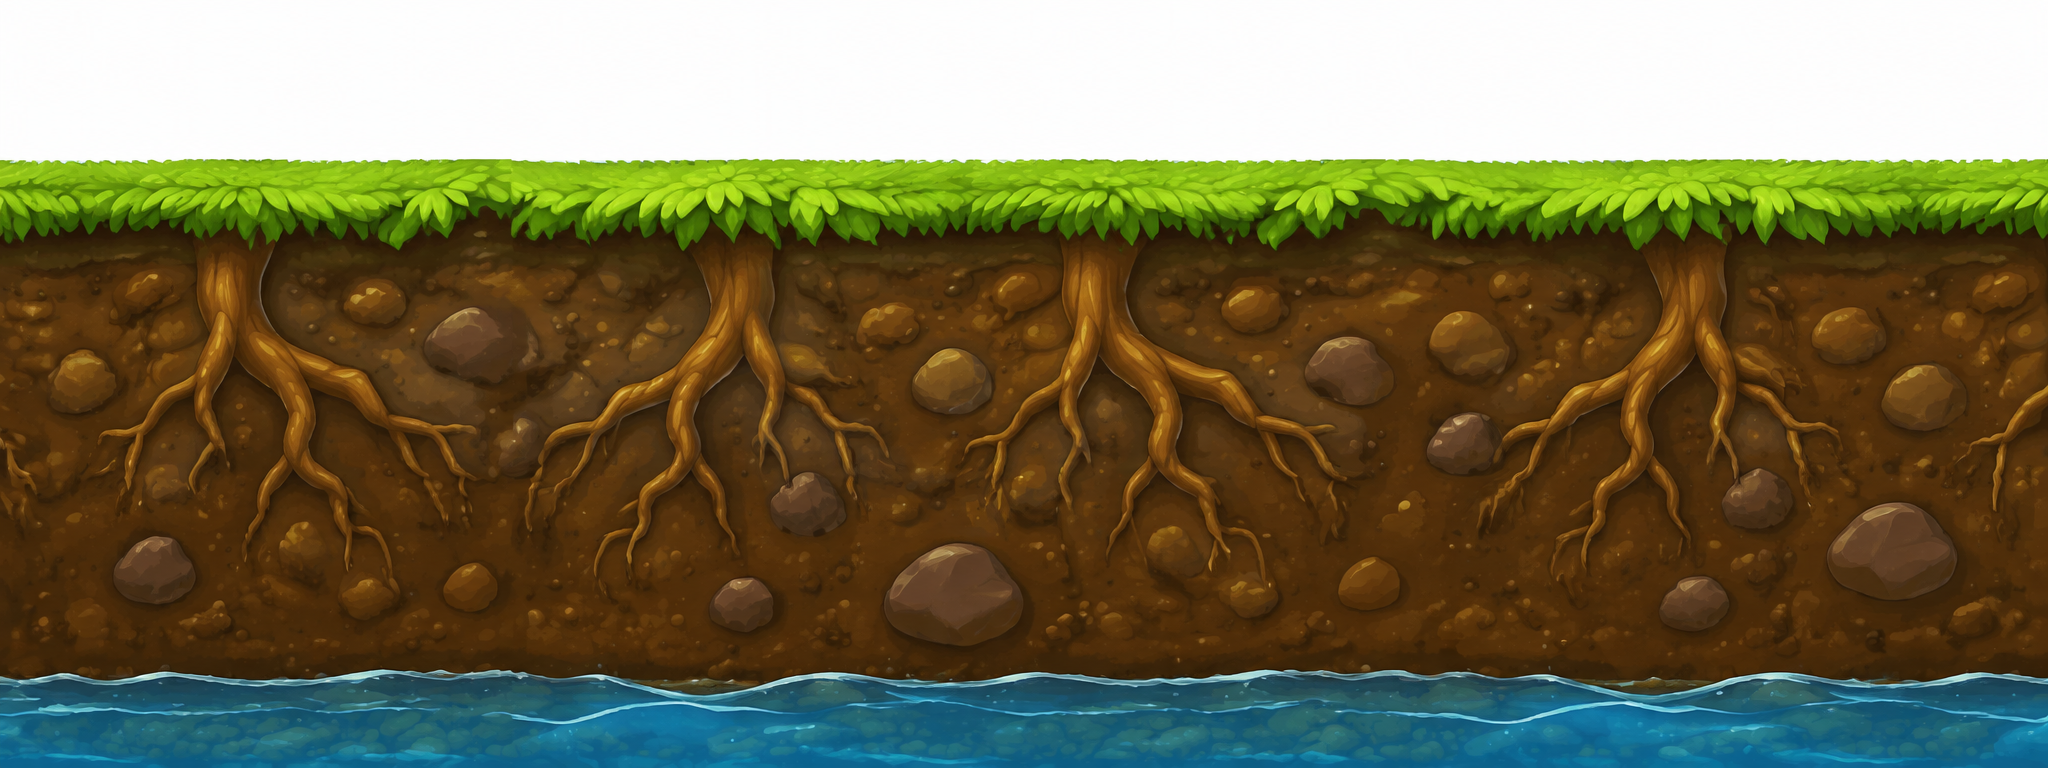
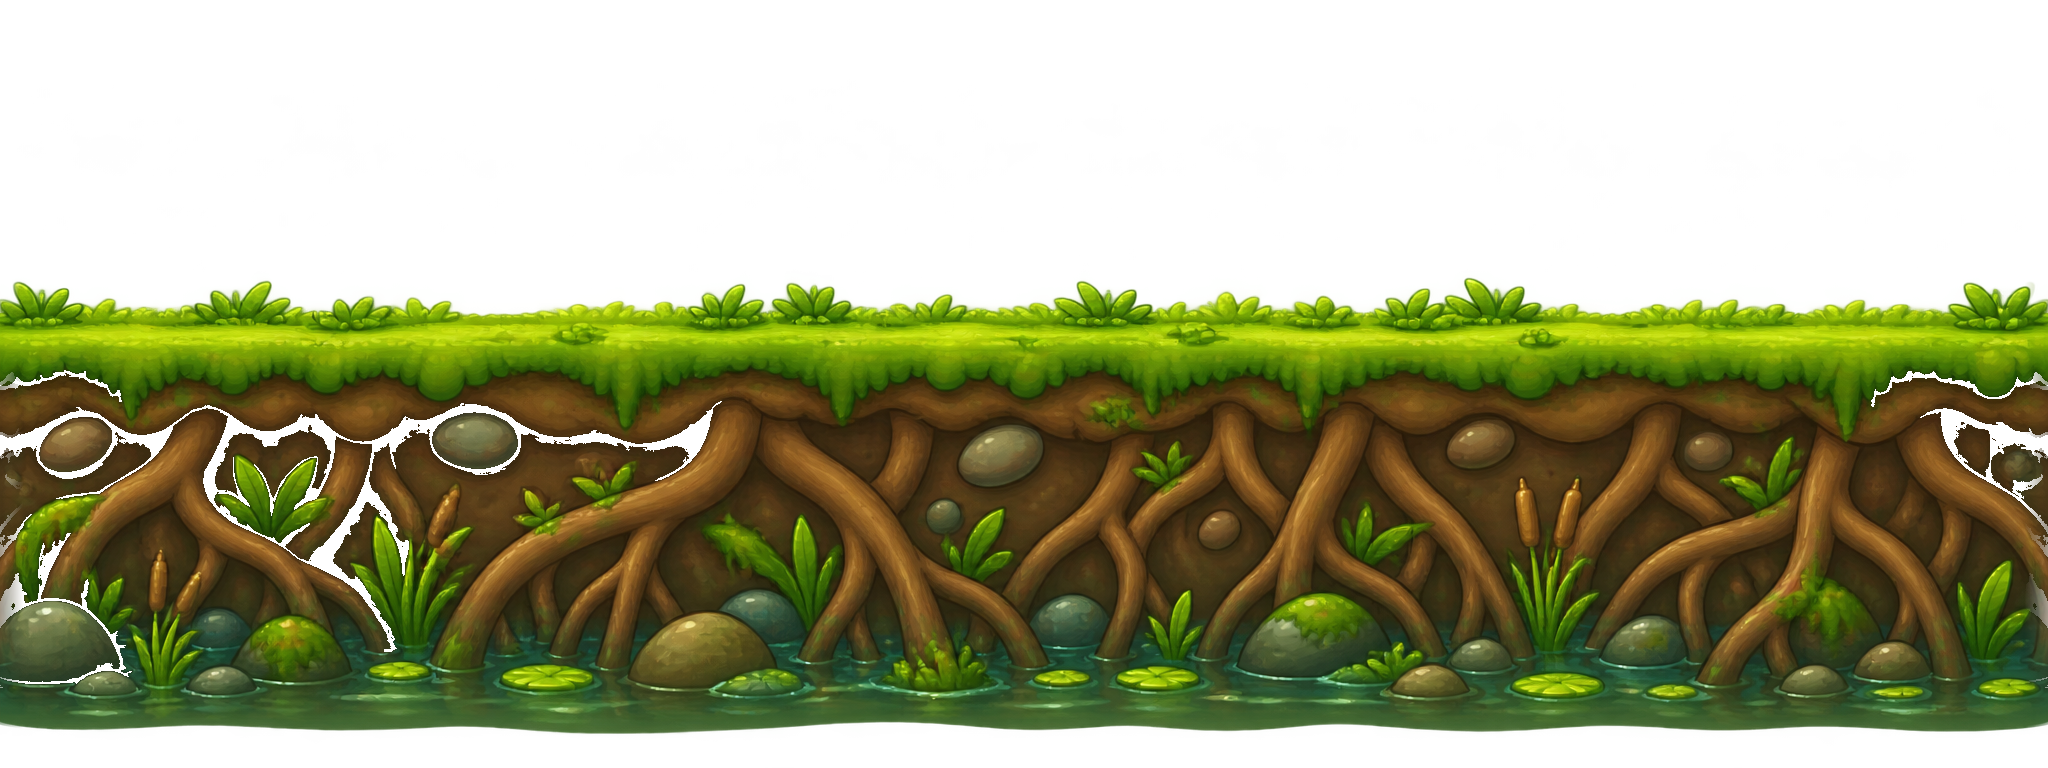
The swamp gets its own ground, water and banjos
The terrain and scenery landed, so level four stops running through a
green meadow. The bank is one ground_bank tile cropped twice, the way the
mountain's ledge is - its walkable surface is source row 306 of 768, which
is what sits on the ground line. Water tiles into the holes and drifts at
a third of the bank's speed, so it reads as moving water rather than a
moving picture. The stepping stone is the root arch, placed by the FLAT
part of its top rather than by its artwork, because the roots underneath
spread wider than the bit he can stand on. Bank ends are capped with the
cut face from bank_edge, mirrored for the far side and never wider than a
third of the hole - two of them meeting in the middle of a narrow gap
would leave no water to see.

Four things from playing it:

- Dogs were being laid down asleep on open water. A dog is placed
  sleeping and only wakes as the fox reaches it, so it would still be
  floating there when the crossing scrolled past. It now needs bank to
  lie on, and waits if there is none.

- Stepping-stone crossings were too rare to meet: they started at score
  700 and were fewer than half of all crossings. From 350 now, and 60%,
  because they are the point of the level.

- The snake and gator sat high. Both are settled 6px into the bank rather
  than 3, which is where the rest of the cast sits.

- Music. Dueling Banjos is Arthur Smith's and still in copyright, so this
  is the same trick on our own notes rather than that tune: bar one calls
[…]

diff --git a/game.js b/game.js
@@ -174,6 +174,12 @@ function makeTheme(dir, label, opts) {
     },
     ground: { grass: q("ground", "grass", "grass.png"),
               dirt: q("ground", "dirt", "dirt.png") },
+    // Water, bank ends and stepping stones, for a setting with a river.
+    riverArt: opts.riverArt ? Object.assign({}, opts.riverArt, {
+      waterSrc: p("ground", "water.png"),
+      platformSrc: p("ground", "platform.png"),
+      edgeSrc: p("ground", "bank_edge.png"),
+    }) : null,
     pages: { intro: p("pages", "intro.png"), gameOver: p("pages", "game_over.png") },
     // The burrow the fox dives into to finish a level.
     foxhole: p("scenery", "fox_hole.png", "foxhole"),
@@ -547,16 +553,43 @@ const THEMES = {
    */
   swamp: makeTheme("swamp", "Swamp", {
     fallback: "field",
-    // No scenery of its own yet, so all of it comes from the field. That
-    // is why a swamp currently runs through a green meadow.
-    inherits: ["ground", "chaser", "collectible", "pages", "scenery", "foxhole"],
+    inherits: ["chaser", "collectible", "pages", "foxhole"],
     river: true,
+    /* One tile cropped twice, the way the mountain's ledge is: the grassy
+     * lip over the earth beneath it. The bank's walkable surface is source
+     * row 306 of 768, which is what surfaceFrac places on the ground line.
+     */
+    groundCrops: {
+      grass: { srcY0: 280, srcY1: 420, drawH: 40, surfaceFrac: 0.186 },
+      dirt: { srcY0: 400, srcY1: 700, drawH: 44, overlap: 10 },
+      underfill: "#3a2c18",
+    },
+    /* The river's own furniture. `top` on the platform is the source row
+     * of its flat mossy surface and `x0/x1` the span of it, so the stone
+     * can be placed by its LANDING edge rather than by its artwork - the
+     * roots below spread wider than the part he can stand on.
+     */
+    riverArt: {
+      water: { srcY0: 0, srcY1: 512 },
+      platform: { trim: { sx: 52, sy: 88, sw: 412, sh: 180 },
+                  top: 104, x0: 109, x1: 420 },
+      // Only the cut face and the roots below it; the rest of the sprite
+      // is bank, and at a gap the bank is already drawn.
+      edge: { trim: { sx: 286, sy: 250, sw: 226, sh: 430 }, surface: 323 },
+    },
     files: {
       obstacles: { hedgehog: "frog.png", rabbit: "gator.png", rock: "turtle.png",
                    sentry: "snake.png", log: "log_mangrove.png",
                    stump: "roots.png", boulder: "river_rock.png" },
       flyer: { fly: seq(6, (i) => `heron_fly_${pad2(i + 1)}.png`),
                hit: "heron_hit.png", fall: "heron_fall.png" },
+      // One tile serves as both bands; groundCrops takes two slices of it.
+      ground: { grass: "ground_bank.png", dirt: "ground_bank.png" },
+      scenery: {
+        trees: ["trees/tree_01.png", "trees/tree_02.png", "trees/tree_03.png"],
+        // Its own reed strip; the three single bushes come from the field.
+        bushes: ["bush_strip.png", null, null, null],
+      },
     },
     reactions: {
       hedgehog: ["frog_1.png", "frog_2.png"],
@@ -594,7 +627,7 @@ const THEMES = {
        * the baseline; the landing one is back down on it.
        */
       sentry: {
-        h: 32, availableFrom: 500, sink: 3, weight: 2,
+        h: 32, availableFrom: 500, sink: 6, weight: 2,
         sheet: { sx: 102, sw: 308 }, floor: 300,
         rearNotice: 430, riseTime: 0.38,
         lungeBy: 26, lungeAt: 165, lungeTime: 0.22,
@@ -612,7 +645,7 @@ const THEMES = {
        * the game, so it is held back to 1100 like the mountain's bear.
        */
       rabbit: {
-        h: 30, availableFrom: 1100, sink: 3, weight: 2.2,
+        h: 30, availableFrom: 1100, sink: 6, weight: 2.2,
         sheet: { sx: 41, sw: 430 }, floor: 300,
         rearNotice: 470, riseTime: 0.42,
         lungeBy: 28, lungeAt: 165, lungeTime: 0.24,
@@ -646,12 +679,20 @@ const THEMES = {
             log: "mangrove log", stump: "roots", boulder: "river rock",
             chaser: "hunting dog", flyer: "heron", collectible: "acorn" },
     dog: { availableFrom: 400, gapScale: 1.0 },
-    // Low and lilting, in E minor pentatonic: slower water than mountain air.
+    /* Banjos, arguing. Written in that idiom rather than lifted from the
+     * film - Dueling Banjos is Arthur Smith's and still in copyright - so
+     * this is the same trick played on our own notes: bar one is a call
+     * low down, bar two answers it an OCTAVE up, note for note, which is
+     * what makes two banjos sound like they are trading blows. G major
+     * pentatonic throughout, over a bluegrass alternating bass that walks
+     * G-A-B-D back to the top of the loop.
+     */
     music: {
-      root: 64, // E4
-      lead: [0, 3, 7, 3, 5, 3, 0, 3, 7, 10, 7, 5, 3, 5, 0, null],
-      bass: [-12, null, null, null, -5, null, null, null,
-             -12, null, null, null, -7, null, null, null],
+      root: 67, // G4
+      lead: [0, 4, 7, 9, 7, 4, 0, 4,        // the call
+             12, 16, 19, 16, 12, 9, 7, null], // and the answer, an octave up
+      bass: [-12, null, -5, null, -12, null, -5, null,
+             -12, null, -5, null, -12, -10, -8, -5],
     },
   }),
 };
@@ -807,7 +848,8 @@ const RIVER = {
   minLanding: 240,     // clear bank after it, to recover on
   gapMin: 1700,        // px of travel between crossings
   gapMax: 3200,
-  stonesFrom: 700,     // score at which the two-hop crossings start
+  stonesFrom: 350,     // score at which the two-hop crossings start
+  stoneChance: 0.6,    // ...and how often a crossing is one of them
   fallKills: 40,       // px below the bank before the run is over
   waterTop: 10,        // where the waterline sits below the bank surface
 };
@@ -1524,6 +1566,12 @@ function loadAssets() {
   THEME.flyer.fly.forEach((src, i) => {
     jobs.push(loadImage(src).then((img) => (images.birdFly[i] = img)));
   });
+  if (THEME.riverArt) {
+    const ra = THEME.riverArt;
+    jobs.push(loadImage(ra.waterSrc).then((img) => (images.water = img)));
+    jobs.push(loadImage(ra.platformSrc).then((img) => (images.platform = img)));
+    jobs.push(loadImage(ra.edgeSrc).then((img) => (images.bankEdge = img)));
+  }
   jobs.push(loadImage(THEME.flyer.hit).then((img) => (images.birdHit = img)));
   jobs.push(loadImage(THEME.flyer.fall).then((img) => (images.birdFall = img)));
   images.dogRun = [];
@@ -2588,7 +2636,7 @@ class DogDirector {
     return max;
   }
 
-  update(dt, speed, score, fox, obstacles, spawner, images) {
+  update(dt, speed, score, fox, obstacles, spawner, images, river) {
     for (const d of this.dogs) d.update(dt, speed, fox, score);
     this.dogs = this.dogs.filter((d) => !d.done);
 
@@ -2619,6 +2667,14 @@ class DogDirector {
     if (obstacles.some((o) => o.x + o.w > GAME_W - 260) || spawner.distanceUntilNext < 220) {
       spawner.distanceUntilNext = Math.max(spawner.distanceUntilNext, 300);
       this.distanceUntilNext = 40; // check again as soon as the ground clears
+      return;
+    }
+    /* And it needs BANK to lie on. A dog is laid down asleep and only
+     * wakes as the fox reaches it, so without this one gets left asleep
+     * on the water as the crossing it spawned over scrolls past him.
+     */
+    if (river && !river.spanIsSolid(GAME_W + 10, GAME_W + 200)) {
+      this.distanceUntilNext = 40;
       return;
     }
     // Breathing room for the encounter opening — full grace for a fresh
@@ -2746,6 +2802,17 @@ class River {
     return this.groundY;
   }
 
+  /* Is everything between x0 and x1 standing on bank? Asked before a
+   * sleeping dog is laid down, and by anything else that has to rest on
+   * solid ground rather than hang over open water.
+   */
+  spanIsSolid(x0, x1) {
+    for (const c of this.crossings) {
+      if (c.x < x1 && c.x + c.w > x0) return false;
+    }
+    return true;
+  }
+
   // Screen spans where there IS bank, so the ground can be drawn around
   // the holes rather than straight through them.
   bankSpans() {
@@ -2784,7 +2851,7 @@ class River {
      */
     if (obstacles && obstacles.some((o) => o.x + o.w > spawnX - RIVER.minRunUp)) return;
     let crossing;
-    if (score >= RIVER.stonesFrom && Math.random() < 0.45) {
+    if (score >= RIVER.stonesFrom && Math.random() < RIVER.stoneChance) {
       /* Two hops with a stone in the middle. Each half is half the jump he
        * has, so neither is near the limit - but together with the stone
        * they are far beyond one jump, which is the whole point of it.
@@ -3854,7 +3921,8 @@ class Game {
         this.obstacles[this.obstacles.length - 1], this.acorns, this.images.acorn
       );
     }
-    this.dogDirector.update(dt, this.speed, this.score, this.fox, this.obstacles, this.spawner, this.images);
+    this.dogDirector.update(dt, this.speed, this.score, this.fox, this.obstacles,
+      this.spawner, this.images, THEME.river ? this.river : null);
     // A woken dog pushes the fox toward mid-screen: the chase fits on
     // screen behind him and obstacles arrive with less warning.
     const dogPressure = this.dogDirector.dogs.some(
@@ -4071,45 +4139,82 @@ class Game {
     this.drawCrossings(dirtTop);
   }
 
-  /* River water, filling the holes in the bank. Stand-in art for now: the
-   * real thing is a tiling water surface, and this is here so the level
-   * can be built and played before it arrives.
+  /* River water, filling the holes in the bank. The tile's waterline is
+   * its top row, so it is laid from just under the bank surface down.
    */
   drawWater(dirtTop) {
-    const { ctx } = this;
+    const { ctx, images } = this;
+    const art = THEME.riverArt;
     const top = this.groundY + RIVER.waterTop;
     for (const c of this.river.crossings) {
-      const g = ctx.createLinearGradient(0, top, 0, GAME_H);
-      g.addColorStop(0, "#4a86a8");
-      g.addColorStop(1, "#1d3f57");
-      ctx.fillStyle = g;
-      ctx.fillRect(c.x, top, c.w, GAME_H - top);
-      // A waterline, so the surface reads as water rather than a hole.
-      ctx.fillStyle = "rgba(255, 255, 255, 0.45)";
-      ctx.fillRect(c.x, top, c.w, 3);
-      ctx.fillStyle = "rgba(255, 255, 255, 0.18)";
-      ctx.fillRect(c.x, top + 11, c.w, 2);
+      ctx.save();
+      ctx.beginPath();
+      ctx.rect(c.x, top, c.w, GAME_H - top + 4);
+      ctx.clip();
+      if (images.water && art) {
+        const src = art.water;
+        const sh = src.srcY1 - src.srcY0;
+        const drawH = GAME_H - top + 10;
+        const scale = drawH / sh;
+        const drawW = images.water.width * scale;
+        // Drifts slower than the bank: moving water, not a moving picture.
+        let x = c.x - ((this.scroll * 0.35) % drawW);
+        for (; x < c.x + c.w; x += drawW) {
+          ctx.drawImage(images.water, 0, src.srcY0, images.water.width, sh,
+            x - 0.5, top, drawW + 1, drawH);
+        }
+      } else {
+        ctx.fillStyle = "#3f6b48";
+        ctx.fillRect(c.x, top, c.w, GAME_H - top);
+      }
+      ctx.restore();
     }
   }
 
-  /* The cut faces at each bank edge, and the stepping stones standing in
-   * the water. Stand-in shapes until the artwork lands.
+  /* The cut ends of the bank, and the stepping stones standing in the
+   * water. The stone is placed by the flat part of its top - the roots
+   * under it spread wider than the bit he can actually stand on.
    */
   drawCrossings(dirtTop) {
-    const { ctx } = this;
+    const { ctx, images } = this;
+    const art = THEME.riverArt;
     for (const c of this.river.crossings) {
-      // The bank does not just stop in mid-air: give each side a face.
-      ctx.fillStyle = "rgba(38, 26, 16, 0.85)";
-      ctx.fillRect(c.x - 7, dirtTop, 7, this.groundY + RIVER.waterTop - dirtTop + 6);
-      ctx.fillRect(c.x + c.w, dirtTop, 7, this.groundY + RIVER.waterTop - dirtTop + 6);
-      for (const s of c.stones) {
-        const h = this.groundY + 26 - s.top;
-        ctx.fillStyle = "#5b6b53";
-        roundRectPath(ctx, s.x, s.top, s.w, h, 9);
-        ctx.fill();
-        ctx.fillStyle = "#7d9070";           // a flat top to land on
-        roundRectPath(ctx, s.x, s.top, s.w, 11, 6);
-        ctx.fill();
+      if (images.bankEdge && art) {
+        const e = art.edge;
+        // Never wider than a third of the hole, or two ends meet in the
+        // middle of a narrow one and there is no water left to see.
+        const w = Math.min(58, c.w * 0.34);
+        const scale = w / e.trim.sw;
+        const above = (e.surface - e.trim.sy) * scale;
+        const h = e.trim.sh * scale;
+        const y = this.groundY - above;
+        // Right-hand lip: the sprite as drawn, its cut face to the left.
+        ctx.drawImage(images.bankEdge, e.trim.sx, e.trim.sy, e.trim.sw, e.trim.sh,
+          c.x + c.w, y, w, h);
+        // Left-hand lip: the same end mirrored.
+        ctx.save();
+        ctx.translate(c.x, y);
+        ctx.scale(-1, 1);
+        ctx.drawImage(images.bankEdge, e.trim.sx, e.trim.sy, e.trim.sw, e.trim.sh,
+          0, 0, w, h);
+        ctx.restore();
+      }
+      for (const st of c.stones) {
+        if (images.platform && art) {
+          const p = art.platform;
+          // Scale so the FLAT TOP matches the stone he can land on.
+          const scale = st.w / (p.x1 - p.x0);
+          const dw = p.trim.sw * scale;
+          const dh = p.trim.sh * scale;
+          const dx = st.x - (p.x0 - p.trim.sx) * scale;
+          const dy = st.top - (p.top - p.trim.sy) * scale;
+          ctx.drawImage(images.platform, p.trim.sx, p.trim.sy, p.trim.sw, p.trim.sh,
+            dx, dy, dw, dh);
+        } else {
+          ctx.fillStyle = "#5b6b53";
+          roundRectPath(ctx, st.x, st.top, st.w, this.groundY + 26 - st.top, 9);
+          ctx.fill();
+        }
       }
     }
   }

diff --git a/index.html b/index.html
@@ -12,7 +12,7 @@
   <meta name="mobile-web-app-capable" content="yes">
   <meta name="apple-mobile-web-app-status-bar-style" content="black-translucent">
   <meta name="apple-mobile-web-app-title" content="Fox Runner">
-  <link rel="stylesheet" href="style.css?v=85">
+  <link rel="stylesheet" href="style.css?v=86">
 </head>
 <body>
   <main class="game-wrap">
@@ -31,7 +31,7 @@
     </form>
   </main>
   <div class="rotate-hint">Rotate your phone to play</div>
-  <script src="game.js?v=85"></script>
+  <script src="game.js?v=86"></script>
   <script>
     // Offline support + installability (needs HTTPS or localhost).
     if ("serviceWorker" in navigator) {

diff --git a/sw.js b/sw.js
@@ -7,8 +7,8 @@
 //    content under the same name, so this cache survives shell bumps and
 //    phones never re-download the artwork. Bump ART_VERSION only if an
 //    asset's content actually changes under an existing filename.
-const SHELL_VERSION = "v53";
-const ART_VERSION = "v10";
+const SHELL_VERSION = "v54";
+const ART_VERSION = "v11";
 const SHELL_CACHE = `fox-runner-shell-${SHELL_VERSION}`;
 const ART_CACHE = `fox-runner-art-${ART_VERSION}`;
 const KEEP = [SHELL_CACHE, ART_CACHE];
